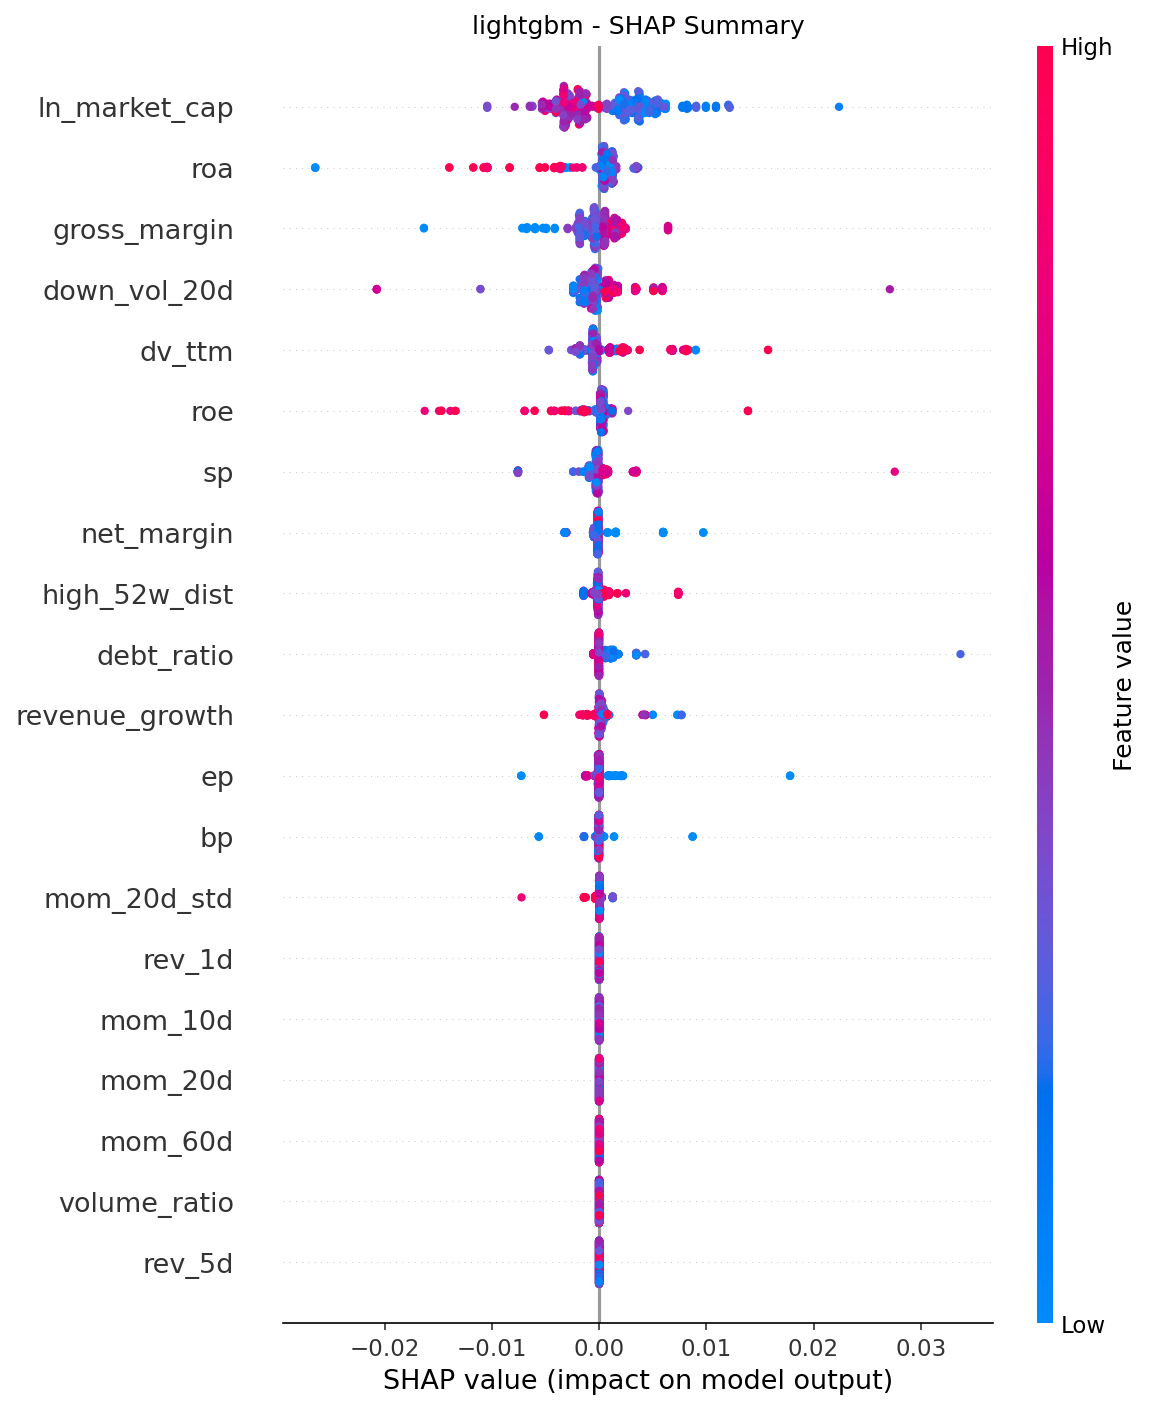
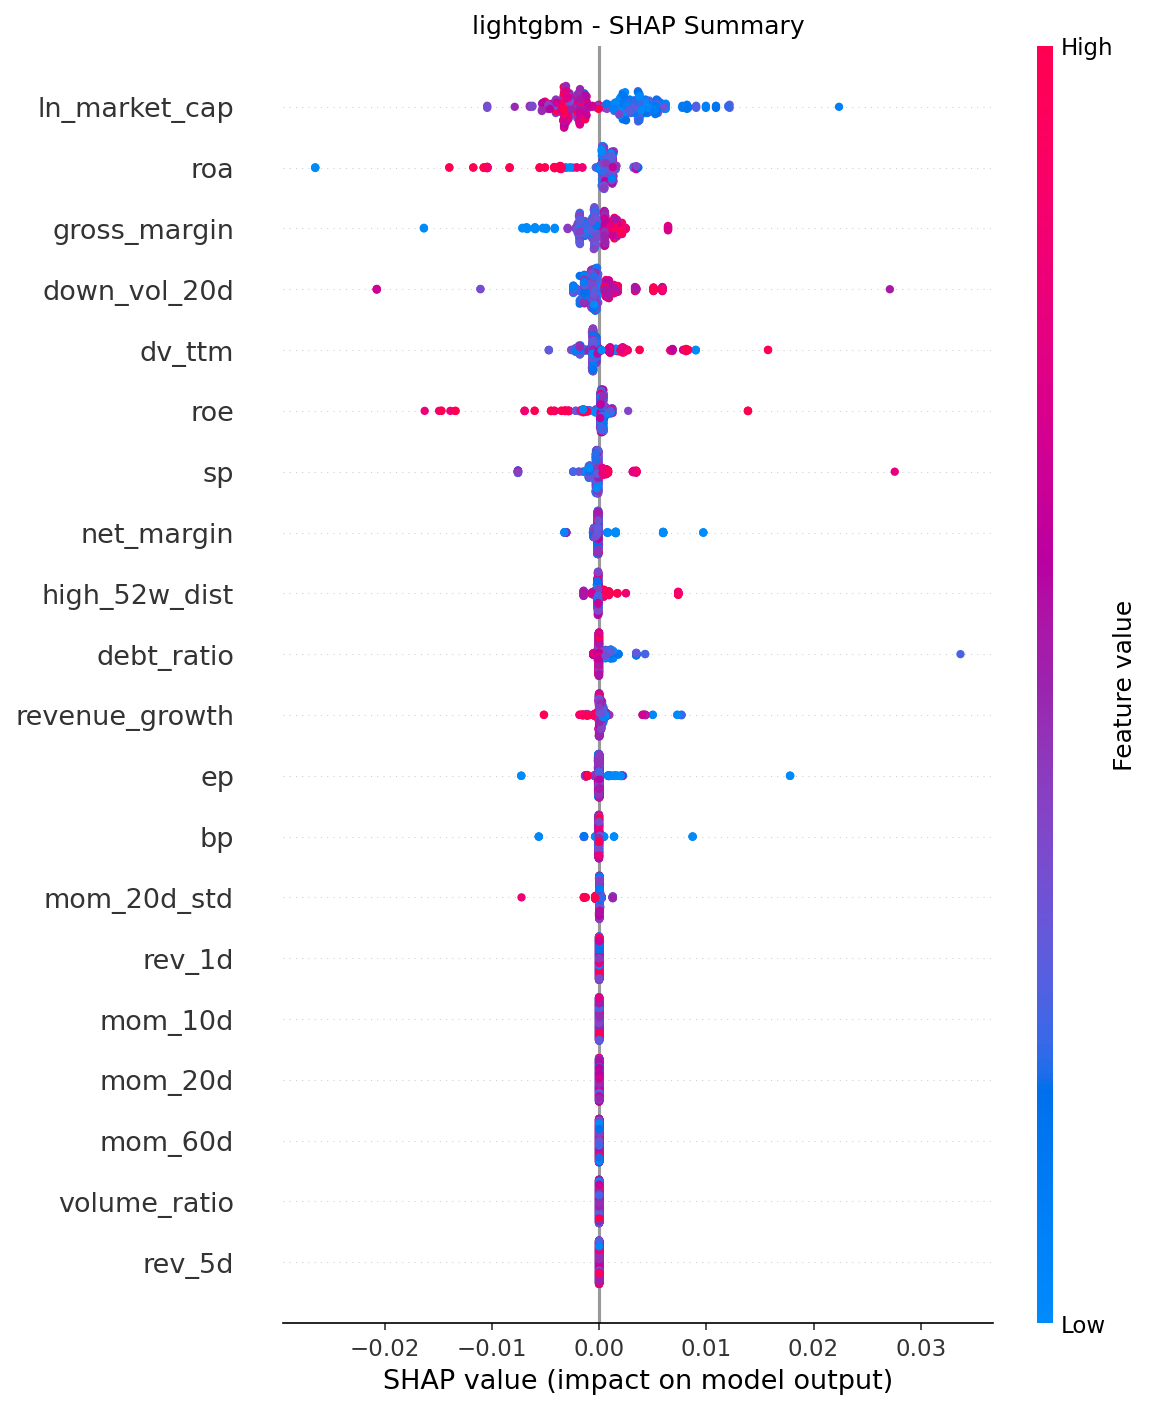
v1.1更新报告： 1. 修改了 evaluation、backtest、analysis文件的保存路径，使得数据文件和图片文件严格分离存储，并且保证不同模块的计算结果分别存储。 2. 修改了 backtest 中的收益率计算方法，将计算方法统一为复利计算。 3. 修改了 tushare 财务数据的获取逻辑，使得获取到的数据仅包含最新财报数据。 4. 更新了依赖文件。

Changed region(s): [[0.4561, 0.0624, 0.5778, 0.905]]

diff --git a/src/data_loader_tushare.py b/src/data_loader_tushare.py
@@ -1057,7 +1057,7 @@ def _download_financial_tushare(
                     start_date=config["data"]["start_date"].replace("-", ""),
                     end_date=config["data"]["end_date"].replace("-", ""),
                     fields=(
-                        'ts_code,ann_date,end_date,report_type,comp_type,'
+                        'ts_code,ann_date,end_date,report_type,comp_type,update_flag,'
                         'roe_dt,roa,grossprofit_margin,netprofit_margin,'
                         'debt_to_assets,current_ratio,or_yoy'
                     )
@@ -1079,6 +1079,11 @@ def _download_financial_tushare(
                     df['code'] = code
                     df['report_date'] = pd.to_datetime(df['report_date'], errors='coerce')
 
+                    # 只保留每只股票 report_date 最新的那条记录
+                    df = df.sort_values('report_date').drop_duplicates(
+                        subset=['code', 'report_date'], keep='last'
+                    )
+                    df = df.sort_values('report_date').groupby('code', as_index=False).tail(1)
 
                     all_data.append(df)
                     _safe_write_progress(progress_path, code)
@@ -1089,10 +1094,12 @@ def _download_financial_tushare(
 
         if all_data:
             new_df = pd.concat(all_data, ignore_index=True)
-            if existing_data is not None and len(existing_data) > 0:
+            if existing_data is not None and len(existing_data) > 0 :
                 result = pd.concat([existing_data, new_df], ignore_index=True)
                 result = result.drop_duplicates()
-            else:
+                # 合并后，每只股票仍只保留 report_date 最新的一条
+                result = result.sort_values('report_date').groupby('code', as_index=False).tail(1)
+            else :
                 result = new_df
 
             logger.info(f"[tushare] 财务数据: {len(result)} 条记录")

diff --git a/src/analysis.py b/src/analysis.py
@@ -243,6 +243,7 @@ def run_shap_analysis(
 
 def analyze_factor_correlation(
     factors: pd.DataFrame,
+    csv_dir: Path,
     output_dir: Path,
     logger=None
 ):
@@ -306,7 +307,7 @@ def analyze_factor_correlation(
                 logger.info(f"    {row['factor_1']} <-> {row['factor_2']}: {row['correlation']:.3f}")
 
         # 保存
-        high_corr_df.to_csv(output_dir / "high_correlation_pairs.csv", index=False)
+        high_corr_df.to_csv(csv_dir / "high_correlation_pairs.csv", index=False)
 
     return corr_matrix
 
@@ -327,7 +328,9 @@ def run_analysis(config: dict, logger):
 
     proc_path = get_data_path(config, "processed")
     model_dir = get_output_path(config, "results") / "models"
+    csv_dir = get_output_path(config, "results") / "analysis"
     output_dir = get_output_path(config, "figures")
+    ensure_dir(csv_dir)
     ensure_dir(output_dir)
 
     # 加载因子数据（用于相关性分析）
@@ -336,7 +339,7 @@ def run_analysis(config: dict, logger):
 
     # 因子相关性分析（全局）
     logger.info("\n分析因子相关性...")
-    analyze_factor_correlation(factors, output_dir, logger)
+    analyze_factor_correlation(factors, csv_dir, output_dir, logger)
 
     # 对每个模型做特征重要性和 SHAP 分析
     model_files = list(model_dir.glob("*.pkl"))
@@ -372,7 +375,7 @@ def run_analysis(config: dict, logger):
             plot_feature_importance(importance, model_name, output_dir, logger=logger)
 
             # 保存特征重要性
-            importance.to_csv(output_dir / f"{model_name}_feature_importance.csv")
+            importance.to_csv(csv_dir / f"{model_name}_feature_importance.csv")
             logger.info(f"  Top 5 特征:")
             for feat, val in importance.head(5).items():
                 logger.info(f"    {feat}: {val:.4f}")

diff --git a/src/backtest.py b/src/backtest.py
@@ -172,7 +172,7 @@ def calc_group_returns(
                         # 每日等权平均收益
                         daily_avg = group_ret.groupby(level="date").mean()
                         # 持有期总收益
-                        period_return = daily_avg.sum()
+                        period_return = (1 + daily_avg).prod() - 1
                     else:
                         period_return = 0.0
                 else:
@@ -274,7 +274,8 @@ def run_backtest(config: dict, logger) -> Dict[str, pd.DataFrame]:
     """
     proc_path = get_data_path(config, "processed")
     pred_path = get_output_path(config, "results") / "predictions"
-    output_path = get_output_path(config, "results")
+    output_path = get_output_path(config, "results") / "backtest"
+    ensure_dir(output_path)
 
     # 加载市场数据
     market_data = load_dataframe(proc_path / "market_data.parquet", logger)
@@ -313,10 +314,10 @@ def run_backtest(config: dict, logger) -> Dict[str, pd.DataFrame]:
 
         # 打印简要结果
         if "long_only_top" in backtest_result.columns:
-            total_return = backtest_result["long_only_top"].sum()
+            total_return = (1 + backtest_result["long_only_top"]).prod() - 1
             logger.info(f"  {model_name} Top 组总收益: {total_return:.2%}")
         if "long_short" in backtest_result.columns:
-            total_return = backtest_result["long_short"].sum()
+            total_return = (1 + backtest_result["long_short"]).prod() - 1
             logger.info(f"  {model_name} 多空总收益: {total_return:.2%}")
 
     return results

diff --git a/src/evaluation.py b/src/evaluation.py
@@ -374,7 +374,9 @@ def run_evaluation(config: dict, logger) -> pd.DataFrame:
     """
     proc_path = get_data_path(config, "processed")
     pred_path = get_output_path(config, "results") / "predictions"
-    output_path = get_output_path(config, "results")
+    back_path =  get_output_path(config, "results") / "backtest"
+    output_path = get_output_path(config, "results") / "evaluation"
+    ensure_dir(output_path)
 
     # 加载标签数据
     labels = load_dataframe(proc_path / "labels.parquet", logger)
@@ -390,7 +392,7 @@ def run_evaluation(config: dict, logger) -> pd.DataFrame:
         predictions = load_dataframe(pred_file, logger)
 
         # 加载回测结果
-        backtest_file = output_path / f"backtest_{model_name}.parquet"
+        backtest_file = back_path / f"backtest_{model_name}.parquet"
         if backtest_file.exists():
             backtest_result = load_dataframe(backtest_file, logger)
         else:
